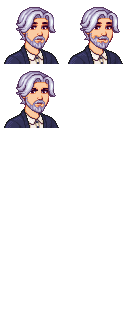
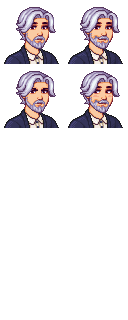
V 2.1.0

Changed region(s): [[0.5312, 0.2188, 0.9688, 0.4062]]

diff --git a/README.md b/README.md
@@ -10,21 +10,34 @@ This mod adds Ross and his friends into the game of Stardew Valley. These 9 NPCs
 * [Content Patcher](https://www.nexusmods.com/stardewvalley/mods/1915)
 
 ## Plans
-* At least one heart event per character. Version 2.1.0 will have plenty of heart events!
-    * Upcoming: Jacob event
-* At some much later date, maybe refine the events that I added. Some of them are a little rough around the edges.
+* At some much later date, maybe refine the events that I added. Some of them are a little rough around the edges. Especially David's 8-heart event!
 * Seems difficult to pull off, but allowing the player to enter Harvey's room when at 2 hearts with David or Ross, or enter Elliot's cabin with 2 hearts with Zech or Shelby, or enter Leah's cabin with 2 hearts with Jacob.
 * Include special compatibility with Ridgeside and SVE.
 * Include additional NPCs, Kato, Sam, Jackie, and Shane.
 * Have clinic visits for each new NPC.
 * Turn the desert excursion on Summer 1 into a dance party.
+* Improve David's and Ross's smiling portraits. They both look weird.
+* Implement island resort dialogue.
+* Maybe redo Kurtis's potion art?
 
 ## Known Bugs
 * Many compatibility issues with Ridgeside and SVE. Nothing gamebreaking, but people are standing in places they shouldn't be in the changed maps, especially in festivals like Spirit's Eve.
 * If you don't have the bridge on the beach built by Summer 7, Ana and Shelby will ford the river and walk to the other side anyway.
 * On Sundays in Fall, Ross may spend the evening staring at a bush. He is supposed to be looking AWAY from the bush.
+* Kurtis's sprite does not appear on the calendar because he shares a birthday with Demitrius.
 
 ## Updates
+
+### V 2.1.0
+* Added an event in town when the player gets 2 hearts with Jacob. Now all the new NPCs have at least one event each!
+* Added an event in the saloon when the player gets 2 hearts with David.
+* Added an event in the mountains when the player gets 5 hearts with David.
+* David can now be seen playing pool on Fridays and on rainy days.
+* Ross now uses a reading animation at book club, and on Thursdays and Fridays.
+* Changes to Ross's, David's, and Dylan's dialogues.
+* Made Dylan love thunder egg.
+* Created new sprites for David.
+* Created a new portrait for David.
 
 ### V 2.0.6
 * Created 2 events and a quest in the Wizard tower when the player gets 5 hearts with Kurtis.
@@ -33,9 +46,9 @@ This mod adds Ross and his friends into the game of Stardew Valley. These 9 NPCs
 * Added a new potion which can be crafted. Kurtis teaches the recipe after his 5-heart event.
 * Created an animation for Kurtis which he uses basically every day.
 * Big changes to likes and dislikes.
-* New sprite art for Ross.
 * Small changes to Kurtis's and Shelby's dialogues.
 * Slightly changed the appearance of David's Epee.
+* New sprite art for Ross.
 
 ### V 2.0.5
 * Added an event in the mountains when the player gets 8 hearts with David.
